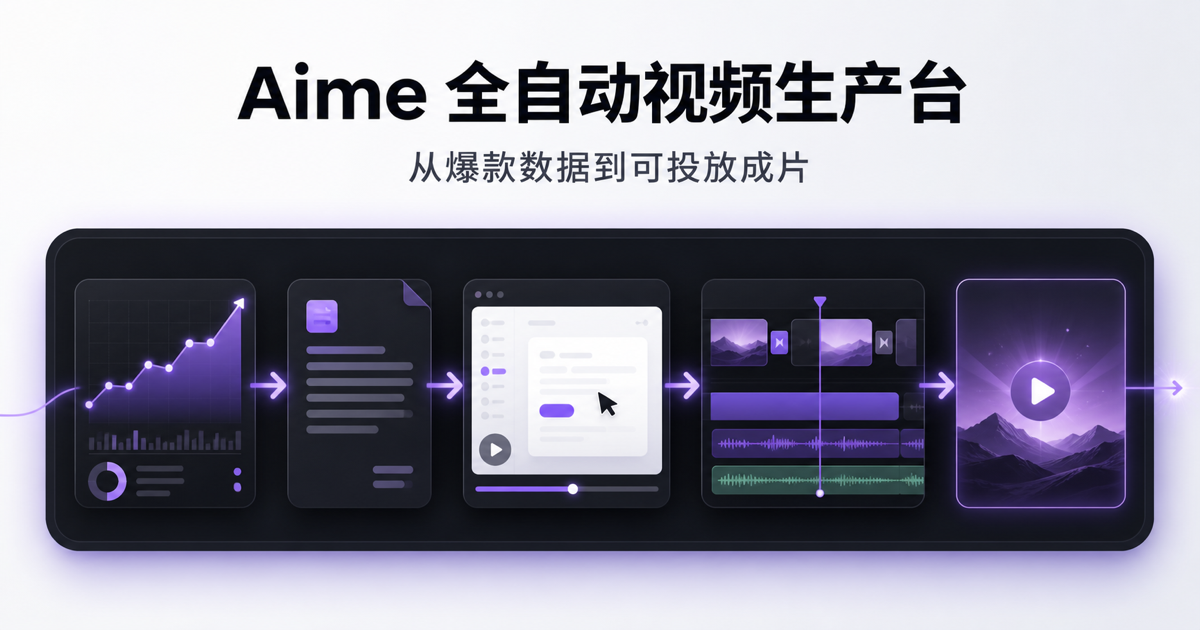
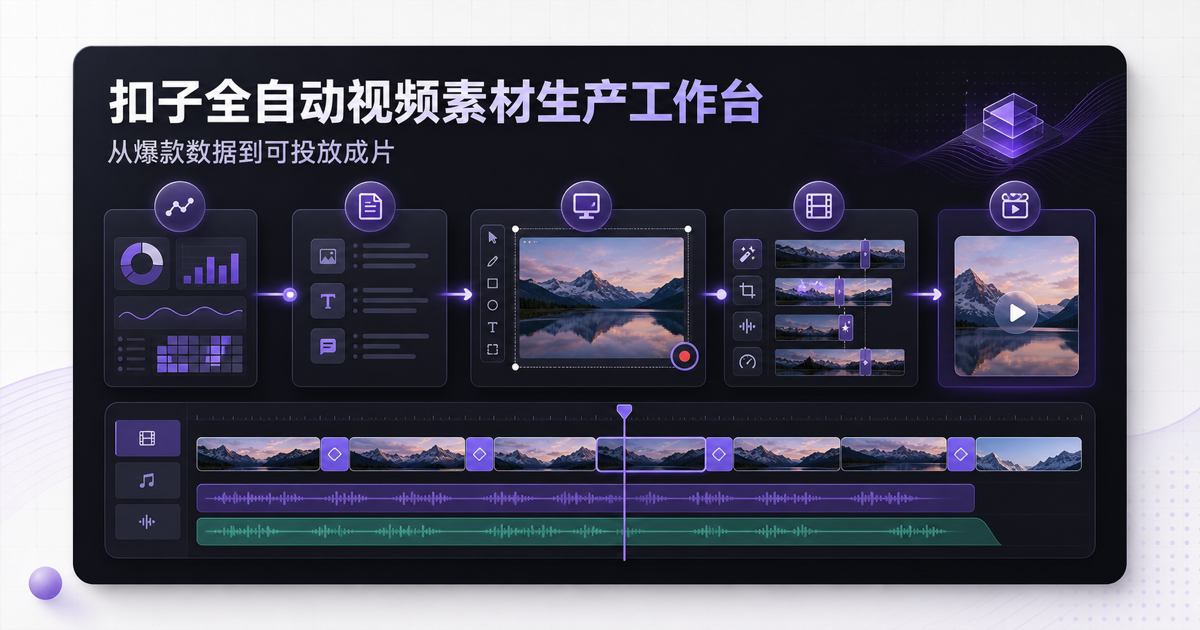
Rename studio to Coze automated video workspace

diff --git a/app/layout.tsx b/app/layout.tsx
@@ -13,16 +13,17 @@ const geistMono = Geist_Mono({
 });
 
 export const metadata: Metadata = {
-  title: 'Aime · 全自动视频生产台',
+  metadataBase: new URL('https://aime-video-studio.spicy-cedar-9771.chatgpt.site'),
+  title: '扣子全自动视频素材生产工作台',
   description: '从爆款数据、脚本生成到真实 UI 录屏与自动剪辑的一体化视频生产工作台。',
   openGraph: {
-    title: 'Aime · 全自动视频生产台',
+    title: '扣子全自动视频素材生产工作台',
     description: '从爆款数据到可投放成片',
-    images: [{ url: '/og.png', width: 1200, height: 630, alt: 'Aime 全自动视频生产台' }],
+    images: [{ url: '/og.png', width: 1200, height: 630, alt: '扣子全自动视频素材生产工作台' }],
   },
   twitter: {
     card: 'summary_large_image',
-    title: 'Aime · 全自动视频生产台',
+    title: '扣子全自动视频素材生产工作台',
     description: '从爆款数据到可投放成片',
     images: ['/og.png'],
   },

diff --git a/app/page.tsx b/app/page.tsx
@@ -41,7 +41,7 @@ export default function Home() {
   return (
     <main className="app-shell">
       <aside className="sidebar">
-        <div className="brand-mark">A</div>
+        <div className="brand-mark">扣</div>
         <nav className="icon-nav" aria-label="主导航">
           <button className="nav-icon active" aria-label="生产工作台"><span>⌂</span></button>
           <button className="nav-icon" aria-label="任务列表"><span>▦</span></button>
@@ -57,8 +57,8 @@ export default function Home() {
       <section className="workspace">
         <header className="topbar">
           <div>
-            <p className="eyebrow">AIME CREATIVE LAB</p>
-            <h1>全自动视频生产台</h1>
+            <p className="eyebrow">COZE VIDEO STUDIO</p>
+            <h1>扣子全自动视频素材生产工作台</h1>
           </div>
           <div className="top-actions">
             <button className="ghost-button"><span className="live-dot" />系统正常</button>
